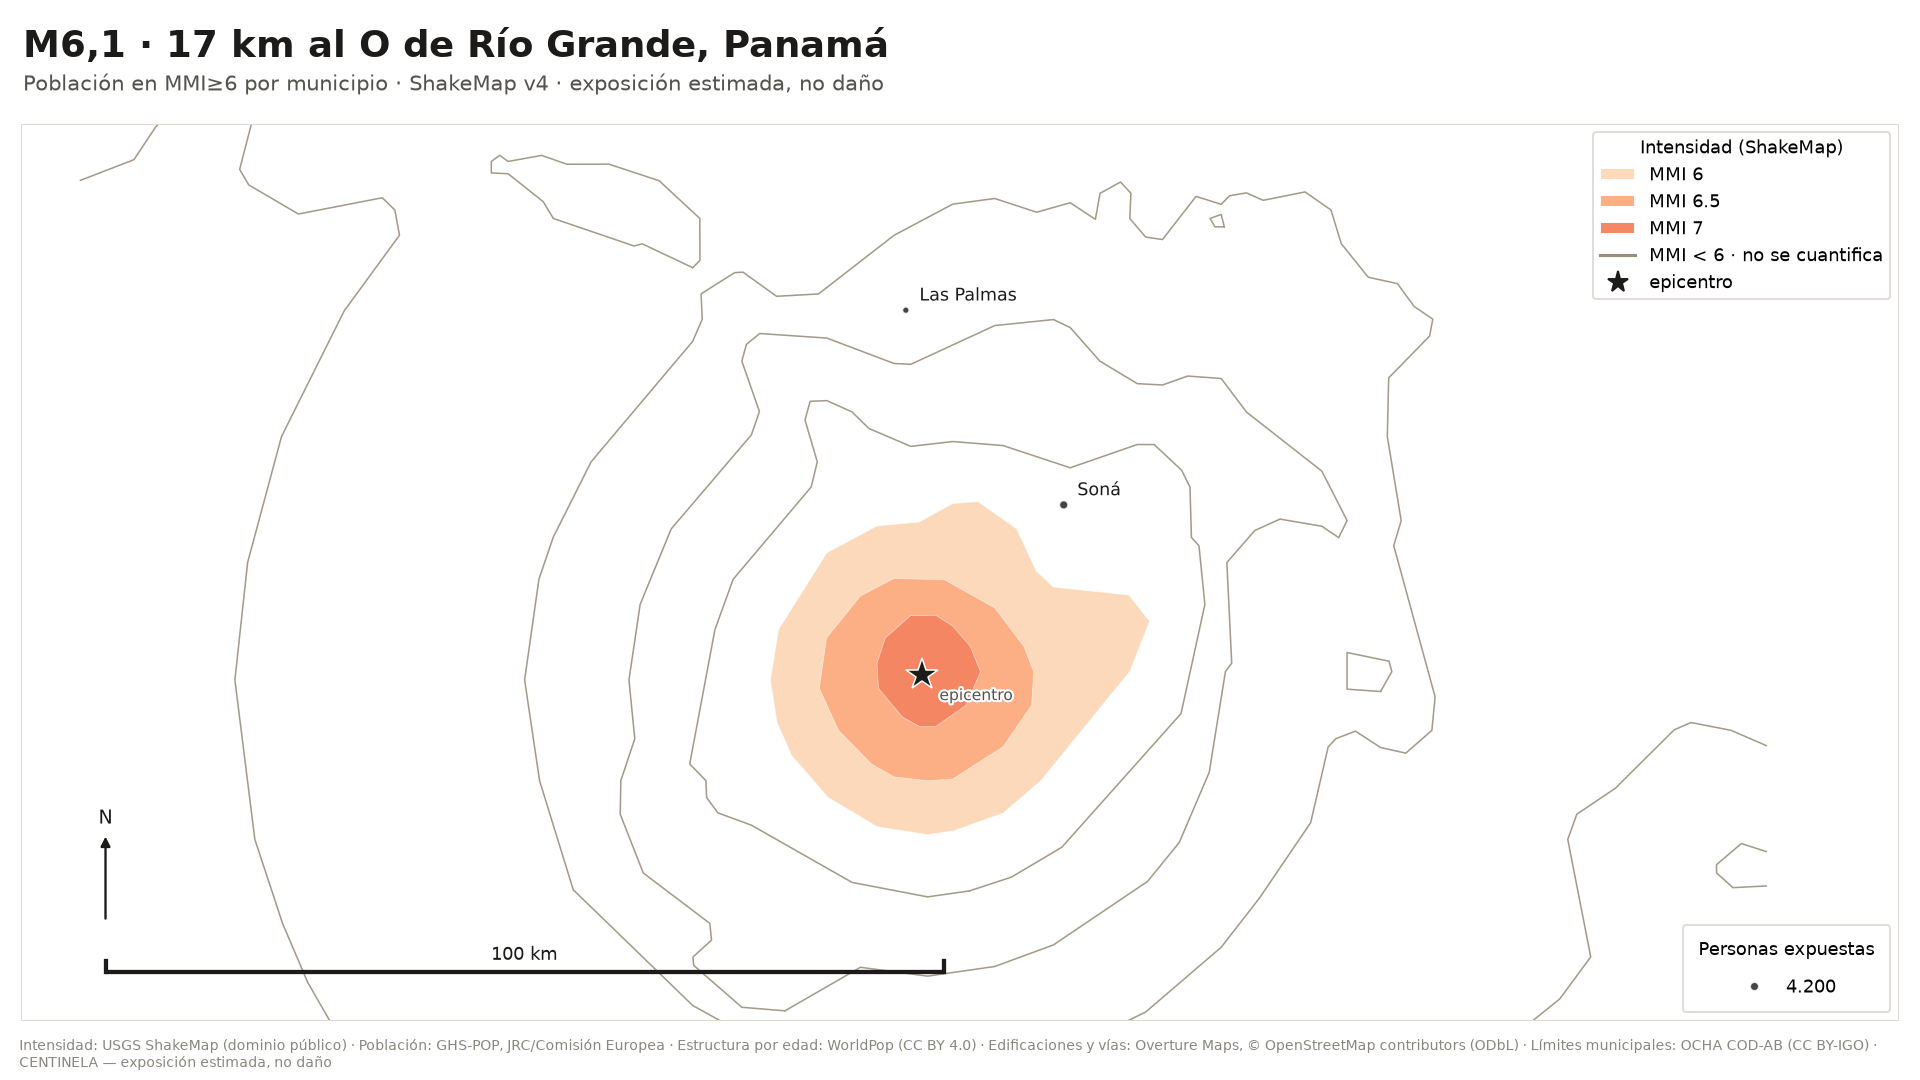
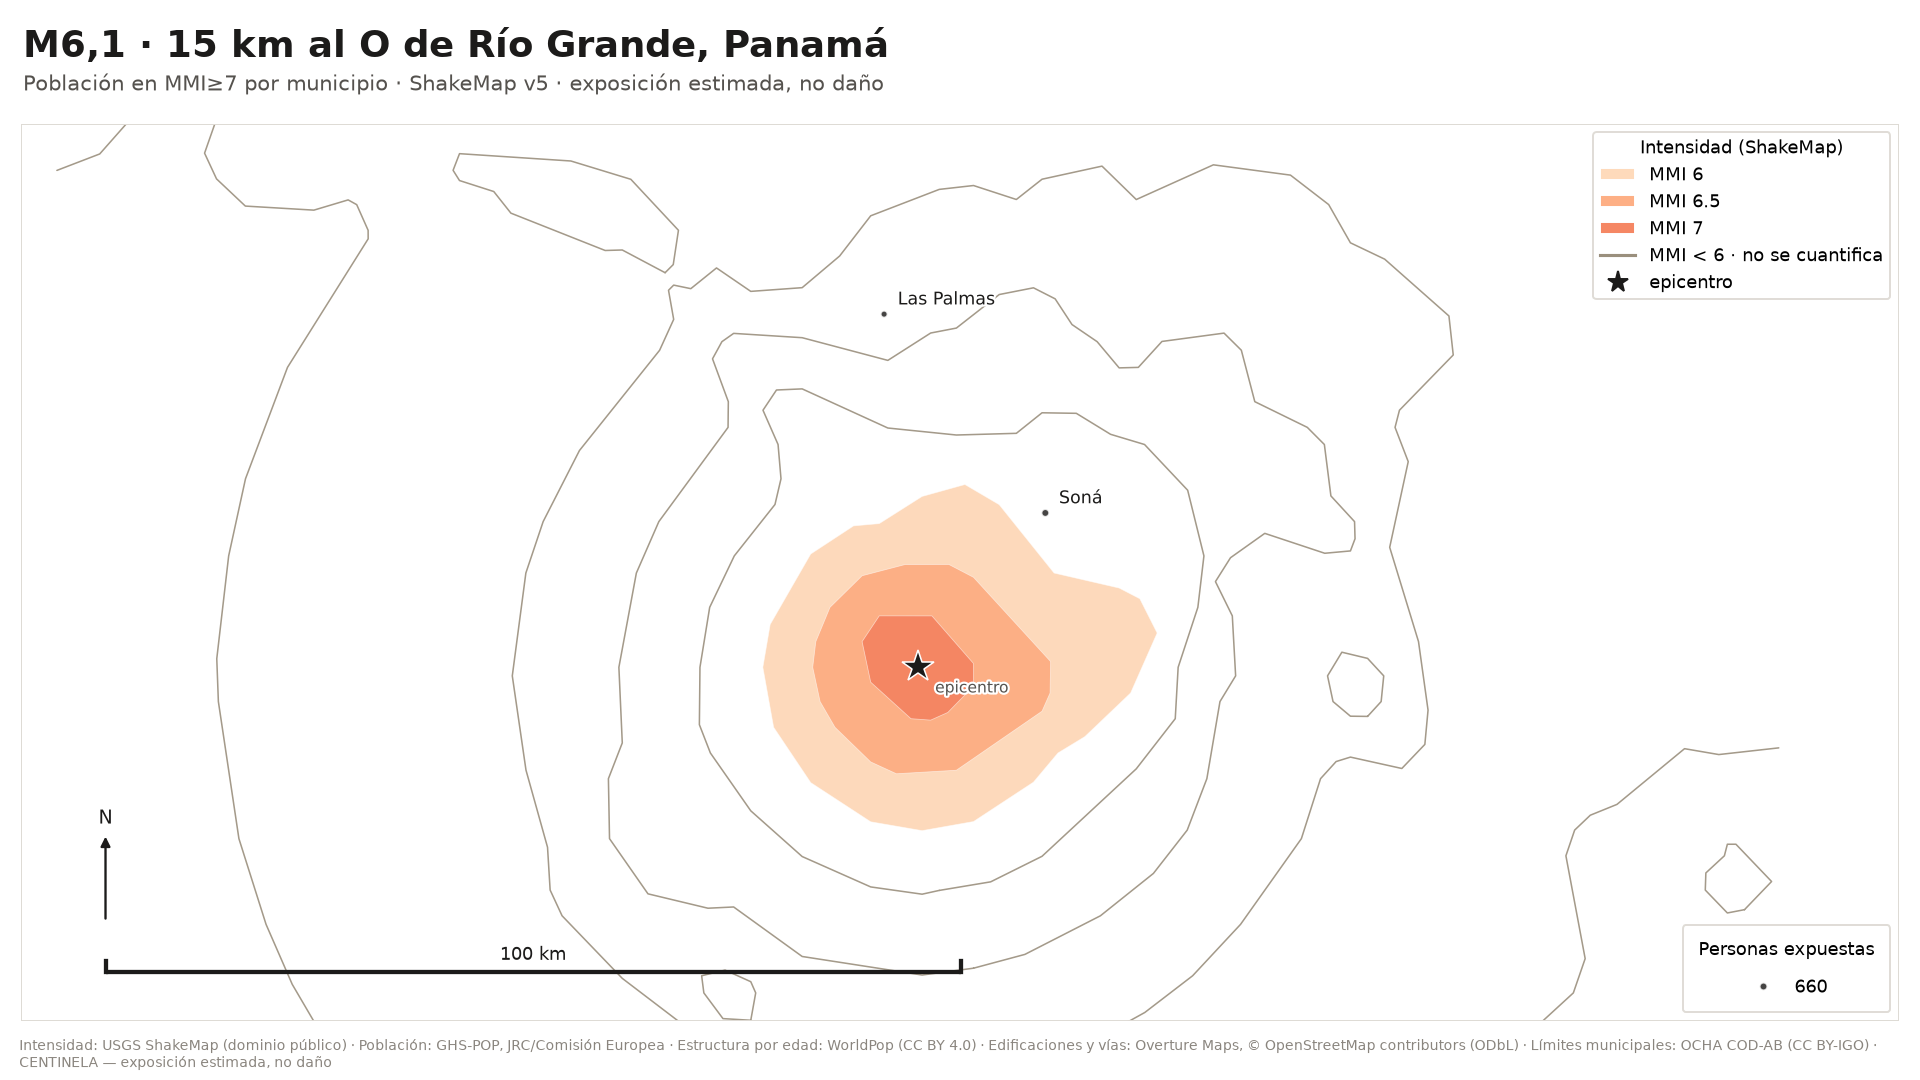
P3: reporte de us6000u1wn

diff --git a/reports/us6000u1wn/report.md b/reports/us6000u1wn/report.md
@@ -1,4 +1,4 @@
-# Exposición sísmica: M6,1 · 17 km al O de Río Grande, Panamá
+# Exposición sísmica: M6,1 · 15 km al O de Río Grande, Panamá
 
 **Evento USGS:** `us6000u1wn` · **Origen:** 2026-10-12T23:20:36Z UTC · **Profundidad:** 11,0 km
 
@@ -6,50 +6,55 @@
 
 | Indicador | Estimado |
 |---|---:|
-| Población en MMI≥6 | 4.200 |
-| Población en MMI≥7 | 37 |
+| Población en MMI≥6 | 5.500 |
+| Población en MMI≥7 | 660 |
 | Población en MMI≥8 | el evento no llegó a esta banda |
-| Edificaciones en MMI≥6 | 3.100 |
-| Sedes de salud en MMI≥6 | 0 |
-| Sedes educativas en MMI≥6 | 2 |
-| Vías primarias y secundarias en MMI≥6 | 11 km |
-| Vías locales en MMI≥6 | 62 km |
-| Superficie construida en MMI≥6 | 0,3 km² |
+| Edificaciones en MMI≥7 | 200 |
+| Sedes de salud en MMI≥7 | 0 |
+| Sedes educativas en MMI≥7 | 0 |
+| Kilómetros de vía en MMI≥7 | 0 km |
+| Superficie construida en MMI≥7 | 0,0 km² |
 
 Las cifras de esta tabla van redondeadas a dos cifras significativas, que es la precisión que un modelo de exposición sostiene. Las exactas están en el CSV municipal y en `report.json`.
 
-De la población en intensidad MMI≥6, alrededor de **500** personas tienen 65 años o más.
+De la población en intensidad MMI≥7, alrededor de **60** personas tienen 65 años o más.
 
-## Municipios más expuestos, por población en MMI≥6
+## Municipios más expuestos, por población en MMI≥7
 
-| # | Municipio | Código | MMI max | Población MMI≥6 |
+| # | Municipio | Código | MMI max | Población MMI≥7 |
 |---:|---|---|---:|---:|
-| 1 | Soná | `PA1312` | 7,0 | 4.200 |
-| 2 | Las Palmas | `PA1305` | 6,0 | 5 |
+| 1 | Soná | `PA1312` | 7,0 | 660 |
 
 ## Deslizamiento y licuefacción
 
-- **Deslizamiento.** Población en celdas de MMI≥6 donde el modelo espera ≥ 0,10 de probabilidad de deslizamiento según `jessee_2018_model.tif`: **0**.
-- **Licuefacción.** Población en celdas de MMI≥6 donde el modelo espera ≥ 0,10 de cobertura areal por licuefacción según `zhu_2017_general_model.tif`: **820**. USGS declara para este evento alerta **amarilla**, con 1.100 expuestas.
+- **Deslizamiento.** Población en celdas de MMI≥6 donde el modelo espera ≥ 0,10 de probabilidad de deslizamiento según `jessee_2018_model.tif`: **0**. USGS declara para este evento alerta **amarilla**, con 2 expuestas. El cero de arriba no dice que no haya exposición: dice que ninguna celda llega al umbral.
+- **Licuefacción.** Población en celdas de MMI≥6 donde el modelo espera ≥ 0,10 de cobertura areal por licuefacción según `zhu_2017_general_model.tif`: **820**. USGS declara para este evento alerta **amarilla**, con 1.300 expuestas.
 
 Las dos cifras se cuentan sobre las celdas del corte publicado (MMI≥6). **No son las de USGS y no se pueden comparar de frente**: aquí se cuenta la población entera de toda celda por encima del umbral, y USGS pondera la población de cada celda por el valor de esa celda. Son dos preguntas distintas sobre el mismo ráster.
 
 **Y el umbral se evalúa en un solo punto por celda: su centroide.** El píxel del ráster es más pequeño que la celda, así que ese punto decide si entra la población entera de la celda o no entra ninguna. No es una estadística areal, y el sesgo que introduce no está medido: puede quedarse corto o pasarse.
 
-Fuente: producto *Ground Failure* de USGS (v2), dominio público.
+Fuente: producto *Ground Failure* de USGS (v3), dominio público.
 
 ## Referencia cruzada
 
-PAGER (USGS) estima para este evento una alerta **verde**. CENTINELA no estima víctimas; la cifra se incluye solo como contraste.
+PAGER (USGS) estima para este evento una alerta **amarilla**. CENTINELA no estima víctimas; la cifra se incluye solo como contraste.
 
 Las dos cifras **no se tabulan igual** y no se pueden leer una contra otra: PAGER agrupa por MMI redondeado (su fila «7» es todo lo que cae entre 6,5 y 7,49) y CENTINELA usa bandas literales, donde MMI≥7 es MMI≥7. Puede además que no hablen del mismo ShakeMap: este reporte declara en «Procedencia» qué versión consumió, y PAGER pudo correr sobre otra versión o sobre otro producto del mismo sismo. El contraste banda a banda, hecho y comprobado para el sismo de San José del Palmar, está en `docs/PARA_INSTITUCIONES.md`.
 
 ## Incertidumbre y calidad
 
-Discrepancia entre GHS-POP y WorldPop en las bandas MMI publicadas: **10,5 %**.
+Discrepancia entre GHS-POP y WorldPop en las bandas MMI publicadas: **4,1 %**.
 
 ## Cambios frente a la versión anterior
 
+- ShakeMap: v4 (us) → v5 (us)
+- Ground Failure: v2 (us) → v3 (us)
+- Epicentro: reubicado 3 km
+- Población en MMI≥6: 4.200 → 5.500
+- Población en MMI≥7: 37 → 660
+- Población de 65 años o más en MMI≥7: 3 → 60
+- Edificaciones en MMI≥7: 36 → 200
 - ShakeMap: v3 (us) → v4 (us)
 - Ground Failure: v1 (us) → v2 (us)
 - Población en MMI≥6: 4.700 → 4.200
@@ -78,10 +83,10 @@ Discrepancia entre GHS-POP y WorldPop en las bandas MMI publicadas: **10,5 %**.
 
 ## Procedencia
 
-- ShakeMap consumido: **v4** de `us`
-- Ground Failure consumido: **v2** de `us`
+- ShakeMap consumido: **v5** de `us`
+- Ground Failure consumido: **v3** de `us`
 - Manifiesto de exposición: [`pan-v0.4`](https://github.com/sforero77/CENTINELA/blob/main/data/manifests/PAN.yaml)
-- Pipeline: `0.1.0` · Generado: 2026-10-13T01:40:52Z
+- Pipeline: `0.1.0` · Generado: 2026-10-23T10:27:57Z
 
 ## Advertencias
 
